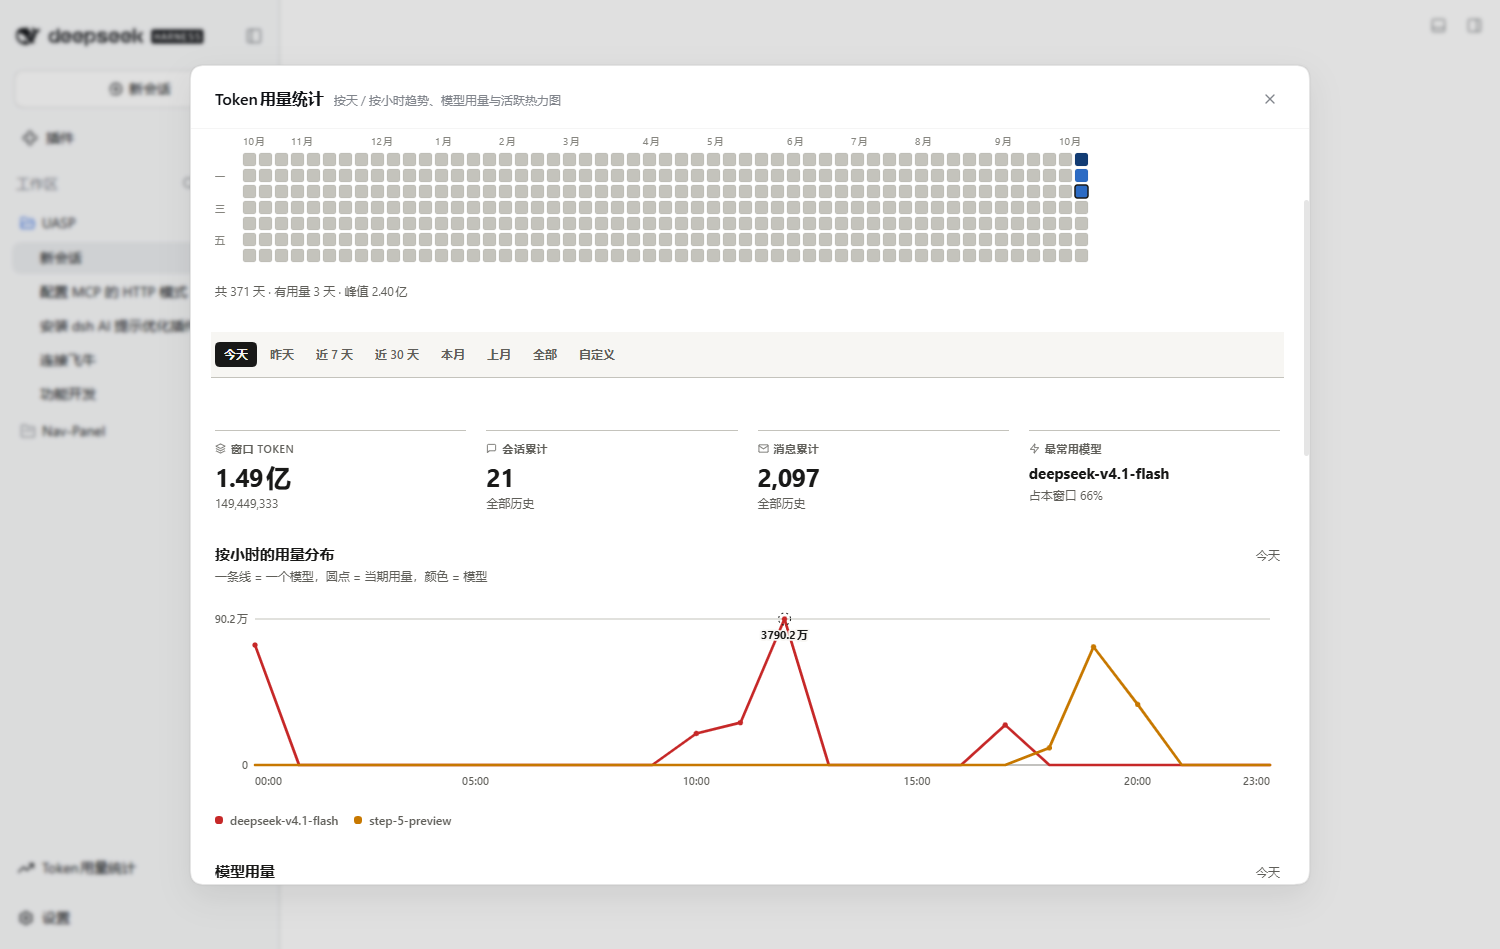
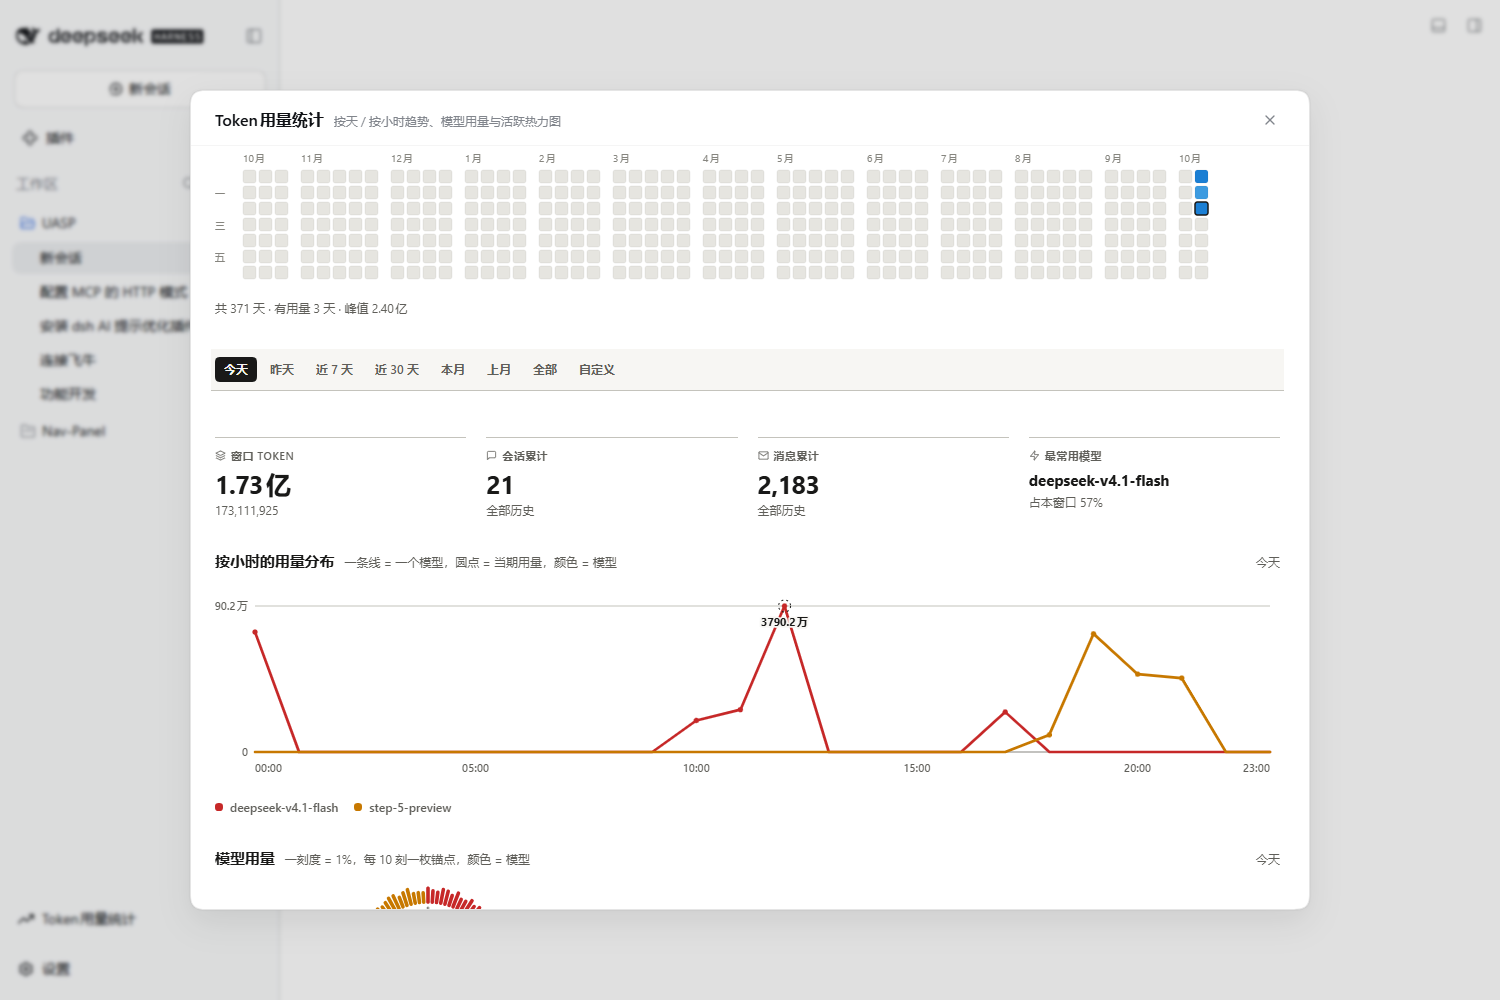
fix: 折线图 tooltip 跟随鼠标，热力图月期间隔与明亮色阶，菜单对齐优化

diff --git a/lib/client.js b/lib/client.js
@@ -218,8 +218,8 @@ body[data-ds-dark-theme] .ust-root {
   align-items: baseline;
   justify-content: space-between;
   gap: 12px 16px;
-  margin: 0 -4px 20px;
-  padding: 10px 4px;
+  margin: 0 -4px 14px;
+  padding: 8px 4px;
   background: var(--surface, #F7F6F3);
   border-bottom: 1px solid var(--rule, #C4C3BC);
 }
@@ -251,6 +251,7 @@ body[data-ds-dark-theme] .ust-tab.active { background: var(--ink); color: #19191
 
 /* ── 图表区块 ───────────────────────────────────────────── */
 .ust-block { display: flex; flex-direction: column; }
+.ust-block-titleRow { display: flex; flex-direction: row; align-items: baseline; flex-wrap: wrap; gap: 2px 10px; min-width: 0; }
 .ust-block-head { display: flex; flex-wrap: wrap; align-items: baseline; justify-content: space-between; gap: 8px 16px; margin-bottom: 14px; }
 .ust-block-head .ust-tabs { gap: 2px; }
 
@@ -445,23 +446,26 @@ body[data-ds-dark-theme] .ust-date::-webkit-calendar-picker-indicator { filter: 
 	.ust-draw { stroke-dasharray: none; stroke-dashoffset: 0; }
 }
 
+/* tooltip portal 宿主（脱离面板 transform 包含块，才能用真正的视口坐标） */
+.ust-tipRoot { position: fixed; top: 0; left: 0; z-index: 10000; pointer-events: none; }
+
 /* ── 活跃热力图（GitHub 贡献网格风格） ── */
-.ust-gh-wrap { overflow-x: auto; overflow-y: hidden; padding: 4px 0 2px; }
+.ust-gh-wrap { width: 100%; overflow-x: auto; overflow-y: hidden; padding: 4px 0 2px; }
 .ust-gh-wrap svg { display: block; }
 .ust-gh-cell { stroke: rgba(0,0,0,.05); stroke-width: 1; }
 body[data-ds-dark-theme] .ust-gh-cell { stroke: rgba(255,255,255,.06); }
 .ust-gh-cell.is-today { stroke: var(--ink); stroke-width: 1.5; }
 /* 五档底色：0 = 无数据 */
-.ust-gh-lv0 { fill: var(--quiet, #C4C3BC); }
-.ust-gh-lv1 { fill: var(--q1, #9CBEE6); }
-.ust-gh-lv2 { fill: var(--q2, #5B8FD4); }
-.ust-gh-lv3 { fill: var(--q3, #2C6BC4); }
-.ust-gh-lv4 { fill: var(--q4, #123C74); }
-body[data-ds-dark-theme] .ust-gh-lv0 { fill: #35342F; }
-body[data-ds-dark-theme] .ust-gh-lv1 { fill: #2A4C7A; }
-body[data-ds-dark-theme] .ust-gh-lv2 { fill: #3F6EA8; }
-body[data-ds-dark-theme] .ust-gh-lv3 { fill: #5F97D4; }
-body[data-ds-dark-theme] .ust-gh-lv4 { fill: #9CC4EE; }
+.ust-gh-lv0 { fill: #E6E5E0; }
+.ust-gh-lv1 { fill: #A8D4F5; }
+.ust-gh-lv2 { fill: #6FBBEF; }
+.ust-gh-lv3 { fill: #3D9BE0; }
+.ust-gh-lv4 { fill: #1B7FD4; }
+body[data-ds-dark-theme] .ust-gh-lv0 { fill: #2E2D28; }
+body[data-ds-dark-theme] .ust-gh-lv1 { fill: #1F5C8B; }
+body[data-ds-dark-theme] .ust-gh-lv2 { fill: #2E7FB8; }
+body[data-ds-dark-theme] .ust-gh-lv3 { fill: #4AA3DC; }
+body[data-ds-dark-theme] .ust-gh-lv4 { fill: #7CC4F0; }
 .ust-gh-axis { fill: var(--faint, #86857F); font-size: 10px; font-family: inherit; }
 .ust-gh-scale { display: flex; align-items: center; gap: 4px; margin-top: 6px; }
 .ust-gh-sw { width: 11px; height: 11px; border-radius: 2.5px; display: inline-block; }
@@ -488,7 +492,7 @@ body[data-ds-dark-theme] .ust-tbl th, body[data-ds-dark-theme] .ust-tbl td { bor
 .ust-fab{position:relative;display:flex;flex:1 1 100%;min-width:0;margin:4px -2px}
 .ust-fabBtn{min-width:0;width:100%;height:42px;box-sizing:border-box;color:var(--dsw-alias-label-primary,#0f1115);cursor:pointer;background:transparent;border:0;border-radius:12px;padding:0 10px 0 8px;font:inherit;font-size:14px;line-height:22px;display:flex;align-items:center;gap:8px;transition:color .15s ease,background-color .15s ease}
 .ust-fabBtn:hover,.ust-fabBtn:focus-visible{background:var(--dsw-alias-interactive-bg-hover,rgba(0,0,0,.05))}
-.ust-fabBtn--rail{width:42px;height:42px;padding:0;justify-content:center;margin:0 auto}
+.ust-fabBtn--rail{width:42px;height:42px;padding:0;justify-content:center;margin:0}
 .ust-fabLabel{white-space:nowrap;overflow:hidden;text-overflow:ellipsis}
 .ust-fabIco{display:inline-flex;width:16px;height:16px;flex:none}
 .ust-fabIco svg{width:100%;height:100%}
@@ -496,24 +500,24 @@ body[data-ds-dark-theme] .ust-tbl th, body[data-ds-dark-theme] .ust-tbl td { bor
 /* 遮罩与面板 */
 .ust-overlay{position:fixed;inset:0;z-index:900}
 .ust-mask{position:absolute;inset:0;background:var(--dsw-alias-bg-mask-2,rgba(0,0,0,.35));backdrop-filter:blur(2px);animation:ustFadeIn .22s ease both}
-.ust-panel{position:absolute;top:50%;left:50%;width:min(1120px,calc(100vw - 40px));height:min(calc(100vh - 48px),820px);max-width:calc(100vw - 40px);max-height:calc(100vh - 48px);box-sizing:border-box;background:var(--dsw-alias-bg-layer-2,#fff);border:1px solid var(--dsw-alias-border-l2,rgba(0,0,0,.12));border-radius:16px;box-shadow:var(--dsw-shadow-lv3,0 12px 40px rgba(0,0,0,.18));display:flex;flex-direction:column;overflow:hidden;transform:translate(-50%,-50%);animation:ustPanelIn .32s cubic-bezier(.16,1,.3,1) both}
+.ust-panel{position:absolute;top:0;left:0;right:0;bottom:0;margin:auto;width:min(1120px,calc(100vw - 40px));height:min(calc(100vh - 48px),820px);max-width:calc(100vw - 40px);max-height:calc(100vh - 48px);box-sizing:border-box;background:var(--dsw-alias-bg-layer-2,#fff);border:1px solid var(--dsw-alias-border-l2,rgba(0,0,0,.12));border-radius:16px;box-shadow:var(--dsw-shadow-lv3,0 12px 40px rgba(0,0,0,.18));display:flex;flex-direction:column;overflow:hidden;animation:ustPanelIn .32s cubic-bezier(.16,1,.3,1) both}
 .ust-overlay.is-closing .ust-mask{animation:ustFadeOut .18s ease both}
 .ust-overlay.is-closing .ust-panel{animation:ustPanelOut .18s ease both}
 @keyframes ustFadeIn{from{opacity:0}to{opacity:1}}
 @keyframes ustFadeOut{from{opacity:1}to{opacity:0}}
-@keyframes ustPanelIn{from{opacity:0;transform:translate(-50%,-46%) scale(.97)}to{opacity:1;transform:translate(-50%,-50%) scale(1)}}
-@keyframes ustPanelOut{from{opacity:1;transform:translate(-50%,-50%) scale(1)}to{opacity:0;transform:translate(-50%,-46%) scale(.98)}}
+@keyframes ustPanelIn{from{opacity:0;scale:.97}to{opacity:1;scale:1}}
+@keyframes ustPanelOut{from{opacity:1;scale:1}to{opacity:0;scale:.98}}
 @media (prefers-reduced-motion: reduce){.ust-mask,.ust-panel{animation:none!important}}
 
 /* 面板头部 / 主体 */
-.ust-panelHead{flex:none;display:flex;align-items:center;gap:14px;padding:18px 24px 14px;border-bottom:1px solid var(--dsw-alias-border-l1,rgba(0,0,0,.08))}
+.ust-panelHead{flex:none;display:flex;align-items:center;gap:14px;padding:14px 24px 10px;border-bottom:1px solid var(--dsw-alias-border-l1,rgba(0,0,0,.08))}
 .ust-panelTitleBox{flex:1 1 auto;min-width:0;display:flex;flex-direction:row;align-items:baseline;gap:10px}
 .ust-panelTitle{margin:0;color:var(--dsw-alias-label-primary,#191918);font-size:16px;font-weight:600;line-height:22px}
 .ust-panelSub{margin:0;color:var(--dsw-alias-label-tertiary,#86857F);font-size:12px;line-height:22px;white-space:nowrap;overflow:hidden;text-overflow:ellipsis;white-space:nowrap}
 .ust-closeBtn{flex:none;width:30px;height:30px;display:inline-flex;align-items:center;justify-content:center;color:var(--dsw-alias-label-tertiary,#86857F);background:transparent;border:0;border-radius:8px;cursor:pointer;transition:color .15s ease,background-color .15s ease}
 .ust-closeBtn:hover{color:var(--dsw-alias-label-primary,#191918);background:var(--dsw-alias-interactive-bg-hover,rgba(0,0,0,.05))}
 .ust-closeBtn svg{width:16px;height:16px}
-.ust-panelBody{flex:1 1 auto;min-height:0;overflow:auto;padding:20px 24px 24px}
+.ust-panelBody{flex:1 1 auto;min-height:0;overflow:auto;padding:12px 24px 20px}
 /* 弹窗已有标题，隐藏视图内重复的 h1 */
 .ust-panelBody .ust-page-title{display:none}
 `;
@@ -581,6 +585,8 @@ body[data-ds-dark-theme] .ust-tbl th, body[data-ds-dark-theme] .ust-tbl td { bor
 				setTip({ node, x, y });
 			};
 			const clear = () => setTip(null);
+			// .ust-panel 已改用 flex/margin 居中（无 transform），
+			// 因此 position:fixed 的包含块回到视口，坐标可直接用 clientX/clientY。
 			const el = tip ? element("div", { className: "ust-tip", style: { left: tip.x + "px", top: tip.y + "px" } }, tip.node) : null;
 			return [place, clear, el];
 		}
@@ -631,11 +637,23 @@ body[data-ds-dark-theme] .ust-tbl th, body[data-ds-dark-theme] .ust-tbl td { bor
 				return r > 0.66 ? 4 : r > 0.33 ? 3 : r > 0.12 ? 2 : 1;
 			};
 
-			const CELL = 13, GAP = 3, PAD_L = 28, PAD_T = 20, PAD_B = 8;
+			const CELL = 13, GAP = 3, MONTH_GAP = 10, PAD_L = 28, PAD_T = 20, PAD_B = 8;
 			const cols = 53, rows = 7;
-			const W = PAD_L + cols * (CELL + GAP) - GAP + 2;
+			// 每月之间额外留白，月份边界一眼可辨
+			const colX = [];
+			{
+				let lastM = -1;
+				for (let c0 = 0; c0 < cols; c0++) {
+					const cell = model.cells.find((x) => x.col === c0);
+					const m = cell ? cell.month : -1;
+					const extra = (lastM !== -1 && m !== lastM) ? MONTH_GAP : 0;
+					colX[c0] = (c0 === 0 ? PAD_L : colX[c0 - 1] + CELL + GAP) + extra;
+					lastM = m;
+				}
+			}
+			const W = (colX[cols - 1] || PAD_L) + CELL + 2;
 			const H = PAD_T + rows * (CELL + GAP) - GAP + PAD_B;
-			const cx = (col) => PAD_L + col * (CELL + GAP);
+			const cx = (col) => colX[col] || 0;
 			const cy = (row) => PAD_T + row * (CELL + GAP);
 
 			// 月份标尺（出现新的月份时标注）
@@ -653,7 +671,7 @@ body[data-ds-dark-theme] .ust-tbl th, body[data-ds-dark-theme] .ust-tbl td { bor
 
 			return element("div", { className: "ust-block" },
 				element("div", { className: "ust-block-head" },
-					element("div", null,
+					element("div", { className: "ust-block-titleRow" },
 						element("h2", { className: "ust-h2" }, "活跃热力图"),
 						element("div", { className: "ust-sub" }, "一块 = 一天，颜色越深 = 当日 Token 越多；最近一年"),
 						element("div", { className: "ust-gh-scale" },
@@ -699,7 +717,7 @@ body[data-ds-dark-theme] .ust-tbl th, body[data-ds-dark-theme] .ust-tbl td { bor
 			};
 			return element("div", { className: "ust-block" },
 				element("div", { className: "ust-block-head" },
-					element("div", null,
+					element("div", { className: "ust-block-titleRow" },
 						element("h2", { className: "ust-h2" }, "会话统计"),
 						element("div", { className: "ust-sub" }, "全部历史会话的 Token 用量与会话内模型明细"),
 					),
@@ -741,7 +759,7 @@ body[data-ds-dark-theme] .ust-tbl th, body[data-ds-dark-theme] .ust-tbl td { bor
 			const grand = rows.reduce((sum, r) => sum + r.total, 0) || 0;
 			return element("div", { className: "ust-block" },
 				element("div", { className: "ust-block-head" },
-					element("div", null,
+					element("div", { className: "ust-block-titleRow" },
 						element("h2", { className: "ust-h2" }, "供应商用量统计"),
 						element("div", { className: "ust-sub" }, "按 API 提供商汇总，含各家模型明细"),
 					),
@@ -901,7 +919,7 @@ body[data-ds-dark-theme] .ust-tbl th, body[data-ds-dark-theme] .ust-tbl td { bor
 
 			return element("div", { className: "ust-block" },
 				element("div", { className: "ust-block-head" },
-					element("div", null,
+					element("div", { className: "ust-block-titleRow" },
 						element("h2", { className: "ust-h2" }, isHour ? "按小时的用量分布" : "用量趋势"),
 						element("div", { className: "ust-sub" }, "一条线 = 一个模型，圆点 = 当期用量，颜色 = 模型"),
 					),
@@ -1010,7 +1028,7 @@ body[data-ds-dark-theme] .ust-tbl th, body[data-ds-dark-theme] .ust-tbl td { bor
 
 			return element("div", { className: "ust-block" },
 				element("div", { className: "ust-block-head" },
-					element("div", null,
+					element("div", { className: "ust-block-titleRow" },
 						element("h2", { className: "ust-h2" }, "模型用量"),
 						element("div", { className: "ust-sub" }, "一刻度 = 1%，每 10 刻一枚锚点，颜色 = 模型"),
 					),
@@ -1257,7 +1275,9 @@ body[data-ds-dark-theme] .ust-tbl th, body[data-ds-dark-theme] .ust-tbl td { bor
 				style.dataset.plugin = "dsh-token-panel";
 				style.textContent = CSS + MODAL_CSS;
 				document.head.appendChild(style);
-				return () => { style.remove(); };
+				return () => {
+					style.remove();
+				};
 			});
 			ctx.slots.inject("sidebar.footer.action", () => ctx.slots.register({
 				name: "sidebar.footer.action",

diff --git a/build/body.js b/build/body.js
@@ -155,7 +155,7 @@ window.__ModuleLoader__.load({
 .ust-fab{position:relative;display:flex;flex:1 1 100%;min-width:0;margin:4px -2px}
 .ust-fabBtn{min-width:0;width:100%;height:42px;box-sizing:border-box;color:var(--dsw-alias-label-primary,#0f1115);cursor:pointer;background:transparent;border:0;border-radius:12px;padding:0 10px 0 8px;font:inherit;font-size:14px;line-height:22px;display:flex;align-items:center;gap:8px;transition:color .15s ease,background-color .15s ease}
 .ust-fabBtn:hover,.ust-fabBtn:focus-visible{background:var(--dsw-alias-interactive-bg-hover,rgba(0,0,0,.05))}
-.ust-fabBtn--rail{width:42px;height:42px;padding:0;justify-content:center;margin:0 auto}
+.ust-fabBtn--rail{width:42px;height:42px;padding:0;justify-content:center;margin:0}
 .ust-fabLabel{white-space:nowrap;overflow:hidden;text-overflow:ellipsis}
 .ust-fabIco{display:inline-flex;width:16px;height:16px;flex:none}
 .ust-fabIco svg{width:100%;height:100%}
@@ -163,24 +163,24 @@ window.__ModuleLoader__.load({
 /* 遮罩与面板 */
 .ust-overlay{position:fixed;inset:0;z-index:900}
 .ust-mask{position:absolute;inset:0;background:var(--dsw-alias-bg-mask-2,rgba(0,0,0,.35));backdrop-filter:blur(2px);animation:ustFadeIn .22s ease both}
-.ust-panel{position:absolute;top:50%;left:50%;width:min(1120px,calc(100vw - 40px));height:min(calc(100vh - 48px),820px);max-width:calc(100vw - 40px);max-height:calc(100vh - 48px);box-sizing:border-box;background:var(--dsw-alias-bg-layer-2,#fff);border:1px solid var(--dsw-alias-border-l2,rgba(0,0,0,.12));border-radius:16px;box-shadow:var(--dsw-shadow-lv3,0 12px 40px rgba(0,0,0,.18));display:flex;flex-direction:column;overflow:hidden;transform:translate(-50%,-50%);animation:ustPanelIn .32s cubic-bezier(.16,1,.3,1) both}
+.ust-panel{position:absolute;top:0;left:0;right:0;bottom:0;margin:auto;width:min(1120px,calc(100vw - 40px));height:min(calc(100vh - 48px),820px);max-width:calc(100vw - 40px);max-height:calc(100vh - 48px);box-sizing:border-box;background:var(--dsw-alias-bg-layer-2,#fff);border:1px solid var(--dsw-alias-border-l2,rgba(0,0,0,.12));border-radius:16px;box-shadow:var(--dsw-shadow-lv3,0 12px 40px rgba(0,0,0,.18));display:flex;flex-direction:column;overflow:hidden;animation:ustPanelIn .32s cubic-bezier(.16,1,.3,1) both}
 .ust-overlay.is-closing .ust-mask{animation:ustFadeOut .18s ease both}
 .ust-overlay.is-closing .ust-panel{animation:ustPanelOut .18s ease both}
 @keyframes ustFadeIn{from{opacity:0}to{opacity:1}}
 @keyframes ustFadeOut{from{opacity:1}to{opacity:0}}
-@keyframes ustPanelIn{from{opacity:0;transform:translate(-50%,-46%) scale(.97)}to{opacity:1;transform:translate(-50%,-50%) scale(1)}}
-@keyframes ustPanelOut{from{opacity:1;transform:translate(-50%,-50%) scale(1)}to{opacity:0;transform:translate(-50%,-46%) scale(.98)}}
+@keyframes ustPanelIn{from{opacity:0;scale:.97}to{opacity:1;scale:1}}
+@keyframes ustPanelOut{from{opacity:1;scale:1}to{opacity:0;scale:.98}}
 @media (prefers-reduced-motion: reduce){.ust-mask,.ust-panel{animation:none!important}}
 
 /* 面板头部 / 主体 */
-.ust-panelHead{flex:none;display:flex;align-items:center;gap:14px;padding:18px 24px 14px;border-bottom:1px solid var(--dsw-alias-border-l1,rgba(0,0,0,.08))}
+.ust-panelHead{flex:none;display:flex;align-items:center;gap:14px;padding:14px 24px 10px;border-bottom:1px solid var(--dsw-alias-border-l1,rgba(0,0,0,.08))}
 .ust-panelTitleBox{flex:1 1 auto;min-width:0;display:flex;flex-direction:row;align-items:baseline;gap:10px}
 .ust-panelTitle{margin:0;color:var(--dsw-alias-label-primary,#191918);font-size:16px;font-weight:600;line-height:22px}
 .ust-panelSub{margin:0;color:var(--dsw-alias-label-tertiary,#86857F);font-size:12px;line-height:22px;white-space:nowrap;overflow:hidden;text-overflow:ellipsis;white-space:nowrap}
 .ust-closeBtn{flex:none;width:30px;height:30px;display:inline-flex;align-items:center;justify-content:center;color:var(--dsw-alias-label-tertiary,#86857F);background:transparent;border:0;border-radius:8px;cursor:pointer;transition:color .15s ease,background-color .15s ease}
 .ust-closeBtn:hover{color:var(--dsw-alias-label-primary,#191918);background:var(--dsw-alias-interactive-bg-hover,rgba(0,0,0,.05))}
 .ust-closeBtn svg{width:16px;height:16px}
-.ust-panelBody{flex:1 1 auto;min-height:0;overflow:auto;padding:20px 24px 24px}
+.ust-panelBody{flex:1 1 auto;min-height:0;overflow:auto;padding:12px 24px 20px}
 /* 弹窗已有标题，隐藏视图内重复的 h1 */
 .ust-panelBody .ust-page-title{display:none}
 `;
@@ -248,6 +248,8 @@ window.__ModuleLoader__.load({
 				setTip({ node, x, y });
 			};
 			const clear = () => setTip(null);
+			// .ust-panel 已改用 flex/margin 居中（无 transform），
+			// 因此 position:fixed 的包含块回到视口，坐标可直接用 clientX/clientY。
 			const el = tip ? element("div", { className: "ust-tip", style: { left: tip.x + "px", top: tip.y + "px" } }, tip.node) : null;
 			return [place, clear, el];
 		}
@@ -298,11 +300,23 @@ window.__ModuleLoader__.load({
 				return r > 0.66 ? 4 : r > 0.33 ? 3 : r > 0.12 ? 2 : 1;
 			};
 
-			const CELL = 13, GAP = 3, PAD_L = 28, PAD_T = 20, PAD_B = 8;
+			const CELL = 13, GAP = 3, MONTH_GAP = 10, PAD_L = 28, PAD_T = 20, PAD_B = 8;
 			const cols = 53, rows = 7;
-			const W = PAD_L + cols * (CELL + GAP) - GAP + 2;
+			// 每月之间额外留白，月份边界一眼可辨
+			const colX = [];
+			{
+				let lastM = -1;
+				for (let c0 = 0; c0 < cols; c0++) {
+					const cell = model.cells.find((x) => x.col === c0);
+					const m = cell ? cell.month : -1;
+					const extra = (lastM !== -1 && m !== lastM) ? MONTH_GAP : 0;
+					colX[c0] = (c0 === 0 ? PAD_L : colX[c0 - 1] + CELL + GAP) + extra;
+					lastM = m;
+				}
+			}
+			const W = (colX[cols - 1] || PAD_L) + CELL + 2;
 			const H = PAD_T + rows * (CELL + GAP) - GAP + PAD_B;
-			const cx = (col) => PAD_L + col * (CELL + GAP);
+			const cx = (col) => colX[col] || 0;
 			const cy = (row) => PAD_T + row * (CELL + GAP);
 
 			// 月份标尺（出现新的月份时标注）
@@ -320,7 +334,7 @@ window.__ModuleLoader__.load({
 
 			return element("div", { className: "ust-block" },
 				element("div", { className: "ust-block-head" },
-					element("div", null,
+					element("div", { className: "ust-block-titleRow" },
 						element("h2", { className: "ust-h2" }, "活跃热力图"),
 						element("div", { className: "ust-sub" }, "一块 = 一天，颜色越深 = 当日 Token 越多；最近一年"),
 						element("div", { className: "ust-gh-scale" },
@@ -366,7 +380,7 @@ window.__ModuleLoader__.load({
 			};
 			return element("div", { className: "ust-block" },
 				element("div", { className: "ust-block-head" },
-					element("div", null,
+					element("div", { className: "ust-block-titleRow" },
 						element("h2", { className: "ust-h2" }, "会话统计"),
 						element("div", { className: "ust-sub" }, "全部历史会话的 Token 用量与会话内模型明细"),
 					),
@@ -408,7 +422,7 @@ window.__ModuleLoader__.load({
 			const grand = rows.reduce((sum, r) => sum + r.total, 0) || 0;
 			return element("div", { className: "ust-block" },
 				element("div", { className: "ust-block-head" },
-					element("div", null,
+					element("div", { className: "ust-block-titleRow" },
 						element("h2", { className: "ust-h2" }, "供应商用量统计"),
 						element("div", { className: "ust-sub" }, "按 API 提供商汇总，含各家模型明细"),
 					),
@@ -568,7 +582,7 @@ window.__ModuleLoader__.load({
 
 			return element("div", { className: "ust-block" },
 				element("div", { className: "ust-block-head" },
-					element("div", null,
+					element("div", { className: "ust-block-titleRow" },
 						element("h2", { className: "ust-h2" }, isHour ? "按小时的用量分布" : "用量趋势"),
 						element("div", { className: "ust-sub" }, "一条线 = 一个模型，圆点 = 当期用量，颜色 = 模型"),
 					),
@@ -677,7 +691,7 @@ window.__ModuleLoader__.load({
 
 			return element("div", { className: "ust-block" },
 				element("div", { className: "ust-block-head" },
-					element("div", null,
+					element("div", { className: "ust-block-titleRow" },
 						element("h2", { className: "ust-h2" }, "模型用量"),
 						element("div", { className: "ust-sub" }, "一刻度 = 1%，每 10 刻一枚锚点，颜色 = 模型"),
 					),
@@ -924,7 +938,9 @@ window.__ModuleLoader__.load({
 				style.dataset.plugin = "dsh-token-panel";
 				style.textContent = CSS + MODAL_CSS;
 				document.head.appendChild(style);
-				return () => { style.remove(); };
+				return () => {
+					style.remove();
+				};
 			});
 			ctx.slots.inject("sidebar.footer.action", () => ctx.slots.register({
 				name: "sidebar.footer.action",

diff --git a/build/panel.css b/build/panel.css
@@ -69,8 +69,8 @@ body[data-ds-dark-theme] .ust-root {
   align-items: baseline;
   justify-content: space-between;
   gap: 12px 16px;
-  margin: 0 -4px 20px;
-  padding: 10px 4px;
+  margin: 0 -4px 14px;
+  padding: 8px 4px;
   background: var(--surface, #F7F6F3);
   border-bottom: 1px solid var(--rule, #C4C3BC);
 }
@@ -102,6 +102,7 @@ body[data-ds-dark-theme] .ust-tab.active { background: var(--ink); color: #19191
 
 /* ── 图表区块 ───────────────────────────────────────────── */
 .ust-block { display: flex; flex-direction: column; }
+.ust-block-titleRow { display: flex; flex-direction: row; align-items: baseline; flex-wrap: wrap; gap: 2px 10px; min-width: 0; }
 .ust-block-head { display: flex; flex-wrap: wrap; align-items: baseline; justify-content: space-between; gap: 8px 16px; margin-bottom: 14px; }
 .ust-block-head .ust-tabs { gap: 2px; }
 
@@ -296,23 +297,26 @@ body[data-ds-dark-theme] .ust-date::-webkit-calendar-picker-indicator { filter: 
 	.ust-draw { stroke-dasharray: none; stroke-dashoffset: 0; }
 }
 
+/* tooltip portal 宿主（脱离面板 transform 包含块，才能用真正的视口坐标） */
+.ust-tipRoot { position: fixed; top: 0; left: 0; z-index: 10000; pointer-events: none; }
+
 /* ── 活跃热力图（GitHub 贡献网格风格） ── */
-.ust-gh-wrap { overflow-x: auto; overflow-y: hidden; padding: 4px 0 2px; }
+.ust-gh-wrap { width: 100%; overflow-x: auto; overflow-y: hidden; padding: 4px 0 2px; }
 .ust-gh-wrap svg { display: block; }
 .ust-gh-cell { stroke: rgba(0,0,0,.05); stroke-width: 1; }
 body[data-ds-dark-theme] .ust-gh-cell { stroke: rgba(255,255,255,.06); }
 .ust-gh-cell.is-today { stroke: var(--ink); stroke-width: 1.5; }
 /* 五档底色：0 = 无数据 */
-.ust-gh-lv0 { fill: var(--quiet, #C4C3BC); }
-.ust-gh-lv1 { fill: var(--q1, #9CBEE6); }
-.ust-gh-lv2 { fill: var(--q2, #5B8FD4); }
-.ust-gh-lv3 { fill: var(--q3, #2C6BC4); }
-.ust-gh-lv4 { fill: var(--q4, #123C74); }
-body[data-ds-dark-theme] .ust-gh-lv0 { fill: #35342F; }
-body[data-ds-dark-theme] .ust-gh-lv1 { fill: #2A4C7A; }
-body[data-ds-dark-theme] .ust-gh-lv2 { fill: #3F6EA8; }
-body[data-ds-dark-theme] .ust-gh-lv3 { fill: #5F97D4; }
-body[data-ds-dark-theme] .ust-gh-lv4 { fill: #9CC4EE; }
+.ust-gh-lv0 { fill: #E6E5E0; }
+.ust-gh-lv1 { fill: #A8D4F5; }
+.ust-gh-lv2 { fill: #6FBBEF; }
+.ust-gh-lv3 { fill: #3D9BE0; }
+.ust-gh-lv4 { fill: #1B7FD4; }
+body[data-ds-dark-theme] .ust-gh-lv0 { fill: #2E2D28; }
+body[data-ds-dark-theme] .ust-gh-lv1 { fill: #1F5C8B; }
+body[data-ds-dark-theme] .ust-gh-lv2 { fill: #2E7FB8; }
+body[data-ds-dark-theme] .ust-gh-lv3 { fill: #4AA3DC; }
+body[data-ds-dark-theme] .ust-gh-lv4 { fill: #7CC4F0; }
 .ust-gh-axis { fill: var(--faint, #86857F); font-size: 10px; font-family: inherit; }
 .ust-gh-scale { display: flex; align-items: center; gap: 4px; margin-top: 6px; }
 .ust-gh-sw { width: 11px; height: 11px; border-radius: 2.5px; display: inline-block; }
